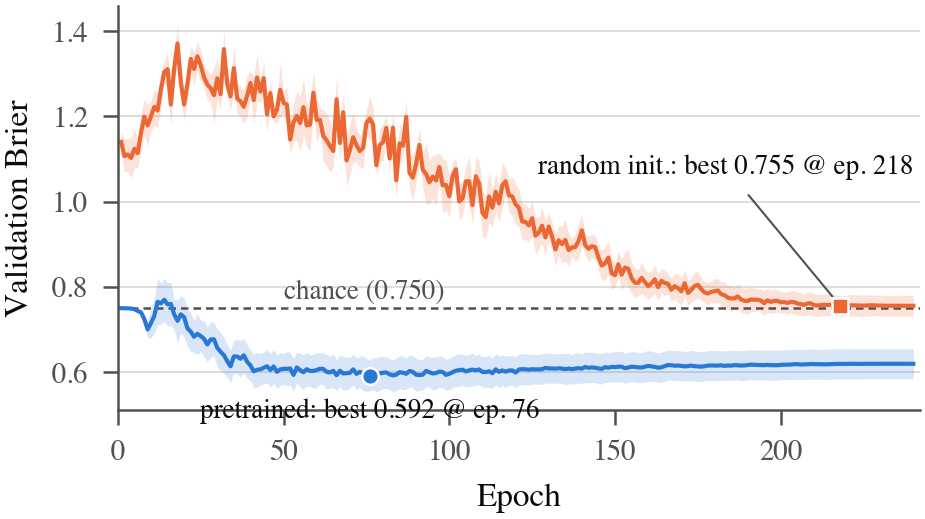
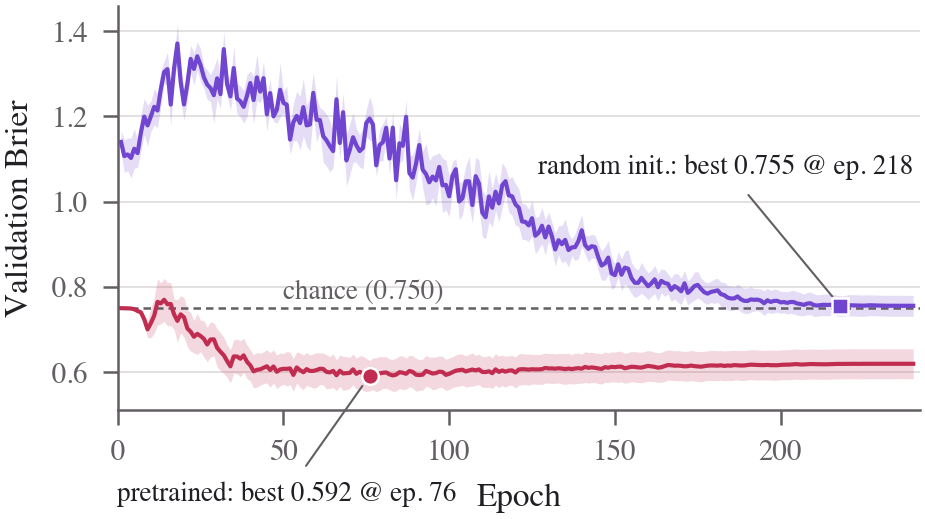
Camera-ready text from Overleaf, with consistency fixes
Authors' Overleaf revision (rewritten introduction and abstract, recoloured
figures, subject-9 trial-count note, Brunner et al. 2024 reference), plus:

- abstract and Fig. 1 now use narrowband - broadband, matching Table II,
  Fig. 2 and Section V-C
- calibration range attributed to the eight single-window supervised arms,
  not Table III, whose supervised rows span only .101-.107
- matched-input arms are not "trained identically"; tuning is per pathway
- BNCI2014-004: difference not statistically detectable; restore the
  EEG Conformer comparison the "not reproduced" claim rests on
- introduction: pipeline impact "may differ" by comparator (exploratory)

diff --git a/paper/calibmi_paper.tex b/paper/calibmi_paper.tex
@@ -36,11 +36,7 @@ sparsh.roy.idk@gmail.com}}
 \maketitle
 
 \begin{abstract}
-Pretrained EEG foundation models are increasingly proposed as general-purpose encoders for brain--computer interfaces, yet recent benchmarks disagree about when their representations transfer to downstream tasks. We audit LaBraM and CBraMod on motor imagery under a validation-locked protocol in which preprocessing, architecture, optimization, freeze depth, checkpoint, temperature, and method selection are determined using training-session data only. On four-class BCI Competition IV-2a, every supervised comparator evaluated here outperforms every foundation-model configuration, including validation-selected fine-tuning.
-
-We then examine a key confound: foundation models and task-specific decoders are normally evaluated using different input pipelines. Retraining three supervised architectures on the broadband arrays consumed by the foundation models produces matched-input accuracy differences of opposite sign across architectures: broadband input improves ATCNet by 0.078 accuracy while reducing EEG Conformer accuracy by 0.088. None of the three individual matched-input terms is significant after multiple-comparison correction at $n=9$. A direct subject-paired contrast of the architecture-specific terms separates ATCNet from the other two comparators, but it rests on a single split and seed, so we treat the sign variation as exploratory rather than as an established architecture-by-pipeline interaction. These observed sign differences suggest that a single comparator may not provide an architecture-invariant decomposition of a pretrained-versus-supervised performance gap.
-
-The four-class deficit also does not reproduce uniformly across motor-imagery datasets: on two-class BNCI2014-004 we cannot detect the same separation between fine-tuned CBraMod and the supervised comparators. Finally, validation-fitted temperature scaling returns foundation-model calibration error to the supervised range despite substantially lower four-class accuracy.
+We audit LaBraM and CBraMod on motor imagery under a validation-locked protocol in which preprocessing, architecture, optimization, freeze depth, checkpoint, temperature, and method selection are determined using training-session data only. In four-class BCI Competition IV-2a, every supervised comparator evaluated here outperforms every foundation-model configuration, including validation-selected fine-tuning. However, is this due to representation strength, or is it confounded by differing preprocessing methods? Retraining 3 supervised architectures on the same broadband arrays consumed by the foundation models shows that this accuracy difference under matched input conditions varies in sign across architectures ($\Delta\mathrm{acc}_{\mathrm{narrowband}-\mathrm{broadband}} = -0.078$ for ATCNet, but $0.088$ for EEG Conformer). None of the 3 terms is significant after correcting for multiple comparisons ($n = 9$), and a direct subject-paired contrast of these architecture-specific terms only shows a difference between ATCNet and the other 2 comparators. This comparison is based on only one split/seed, so the differing signs are merely exploratory, but they suggest that evaluating a single comparator may not be sufficient to separate pretraining and supervised training contributions to the performance in an architecture-invariant manner. Finally, we do not observe the same 4-class deficit when training on a 2-class motor imagery dataset (BNCI2014-004), and we use temperature scaling fitted on a validation set to bring the foundation model's calibration error down to the range of supervised models despite its lower accuracy for the 4-class task.
 \end{abstract}
 
 \begin{IEEEkeywords}
@@ -49,13 +45,10 @@ EEG, brain--computer interface, foundation models, motor imagery, model evaluati
 
 \section{Introduction}
 
-Large pretrained EEG encoders such as LaBraM \cite{jiang2024labram} and CBraMod \cite{wang2025cbramod} are intended to provide reusable representations across downstream neural-decoding tasks. Motor imagery is an informative stress test because subject-specific datasets are small, session shift is substantial, and strong supervised decoders already exist \cite{pfurtscheller1999erd,lotte2018review}. Recent EEG foundation-model benchmarks, however, do not give a consistent answer about transfer \cite{kontras2026neuroatlas,zare2026negativecontrol}.
-
-Two methodological problems complicate comparison. First, evaluation protocols differ. Some published BCI Competition IV-2a results use protocols that differ from the official cross-session setting---for example within-session random splits or other choices that make headline accuracies difficult to compare directly \cite{yu2022lffn}. Standardized BCI benchmarking efforts were developed in part to address this broader reproducibility problem \cite{jayaram2018moabb,chevallier2024reproducibility}.
-
-Second, pretrained and task-specific models often require different input pipelines. A foundation model may expect broadband recordings at a particular sampling rate and scale, whereas a supervised motor-imagery decoder may be optimized for a narrower frequency band. A direct performance difference therefore combines model and input-pipeline effects. NeuroAtlas explicitly identifies EEG-specific preprocessing as a possible confound \cite{kontras2026neuroatlas}, but the corresponding term is rarely examined across several comparator architectures.
-
-We address both issues. Every tunable decision is selected using training-session data only, with machine-checked provenance preventing evaluation labels from entering selection. We then repeat the matched-input control for three supervised architectures rather than one. Our contributions are: (i) a validation-locked evaluation protocol whose leakage guard is encoded in the stored artifacts; (ii) an audit of LaBraM and CBraMod against three supervised motor-imagery architectures plus an architecture-matched random-initialization control; (iii) a three-architecture matched-input analysis whose point estimates differ in sign across comparators; (iv) evidence that the large BCI IV-2a deficit does not reproduce uniformly on BNCI2014-004, without attributing the difference to class count alone; and (v) calibration analysis showing that a single validation-fitted temperature can return foundation-model ECE to the supervised range even when accuracy remains substantially lower.
+Electroencephalography (EEG) is a non-invasive method of measuring neural activity. It has been utilized for brain--computer interfaces (BCIs), which translate neural signals into actionable commands for assistive devices (e.g., prosthetics, FES therapy) \cite{lotte2018review}. A common BCI task is predicting \emph{motor imagery}, where imagined movements produce distinct neural patterns (e.g., "right-hand raise" vs.\ "left-footed kick") \cite{pfurtscheller1999erd,lotte2018review}. However, decoding neural recordings remains difficult due to variability across participants, settings, and time, and collecting EEG data is costly \cite{lotte2018review,brunner2024bcifes}.
+These constraints make generalizable neural representations imperative, and they have been the focus of recent EEG foundation models, which are pretrained on large collections of neural recordings. Such models (e.g., LaBraM \cite{jiang2024labram}, CBraMod \cite{wang2025cbramod}) learn representations that reduce dependence on task-specific labeled data, and demonstrate transfer across participants and tasks. However, these models have shown inconsistent benefits over standard supervised decoders in recent benchmarks \cite{kontras2026neuroatlas,zare2026negativecontrol}. As foundation models are poised to become more prevalent in neural decoding, their improvements over supervised decoders must be reliable enough to justify their inherent complexity and higher cost of training.
+Evaluating these improvements is also difficult, as different model types (foundation vs.\ supervised) require different input pipelines (e.g., filtering, sampling rate, scaling), so an observed performance gap may reflect pipeline differences rather than differences in the learned representations \cite{kontras2026neuroatlas}. Furthermore, the impact of a preprocessing pipeline may differ by the supervised model chosen for comparison, so a single baseline may not be sufficient to establish the value of pretraining.
+Here, we perform a validation-locked audit of LaBraM and CBraMod on motor imagery classification. (1) Using only data from the training session to select methods and models, we compare the encoders of these foundation models to three architectures trained in a supervised fashion, as well as architecture-matched controls with random initialization. (2) We retrain the supervised architectures on the same broadband inputs used by the foundation models to determine whether the matched-input accuracy difference is consistent across comparators. (3) We evaluate whether the accuracy deficit is task-dependent, and how improved probability calibration relates to classification accuracy.
 
 \begin{figure}[t]
 \centering
@@ -63,40 +56,42 @@ We address both issues. Every tunable decision is selected using training-sessio
 \begin{tikzpicture}[
     >=Latex,
     node font=\scriptsize,
-    box/.style={draw,rounded corners=1.5pt,align=center,minimum height=6mm,inner xsep=4pt,inner ysep=2.5pt},
-    arr/.style={->,line width=.45pt}
+    box/.style={draw,rounded corners=1.5pt,align=center,minimum width=1.9cm,
+                minimum height=6mm,inner xsep=3pt,inner ysep=2.5pt},
+    wide/.style={box,minimum width=2.4cm},
+    arr/.style={->,line width=.45pt},
+    title/.style={font=\footnotesize\bfseries,anchor=west}
 ]
-\node[font=\footnotesize\bfseries,anchor=west] at (0,2.25) {(a) Validation-locked evaluation};
-\node[box] (train) at (0.6,1.35) {Training\\session};
-\node[box] (fit)   at (2.65,1.75) {Fit split\\80\%};
-\node[box] (sel)   at (2.65,0.95) {Selection split\\20\%};
-\node[box,text width=2.3cm] (lock) at (5.2,1.35) {Lock configuration\\architecture, LR,\\checkpoint, temperature};
-\node[box] (test) at (7.75,1.35) {Held-out\\session};
-\node[box] (report) at (9.65,1.35) {Report\\metrics once};
-\draw[arr] (train.east) -- (fit.west);
-\draw[arr] (train.east) -- (sel.west);
-\draw[arr] (fit.east) -- (lock.west);
-\draw[arr] (sel.east) -- (lock.west);
-\draw[arr] (lock.east) -- node[above,font=\tiny] {configuration frozen} (test.west);
-\draw[arr] (test.east) -- (report.west);
-\node[font=\tiny,align=center] at (6.5,0.55) {held-out labels are never used for selection};
+% ---------- (a) Validation-locked evaluation ----------
+\node[title] at (-0.95,1.15) {(a) Validation-locked evaluation};
+\node[box] (train) at (0,0)        {Training\\session};
+\node[box] (fit)   at (2.65,0.45)  {Fit split\\80\%};
+\node[box] (sel)   at (2.65,-0.45) {Selection\\split 20\%};
+\node[box] (lock)  at (5.3,0)      {Lock\\configuration};
+\node[box] (test)  at (8.35,0)     {Evaluate once\\on held-out\\session};
 
-\node[font=\footnotesize\bfseries,anchor=west] at (0,-0.15) {(b) Matched-input control};
-\node[box] (eeg) at (0.6,-1.05) {Same EEG\\recordings};
-\node[box] (narrow) at (2.95,-0.65) {Narrowband\\8--30 Hz, 250 Hz};
-\node[box] (broad) at (2.95,-1.45) {Broadband\\0.1--75 Hz, 200 Hz};
-\node[box,text width=2.15cm] (arch) at (5.65,-1.05) {Same supervised\\architecture\\independently tuned};
-\node[box,text width=2.0cm] (term) at (8.15,-1.05) {Matched-input term\\narrow $-$ broad};
-\draw[arr] (eeg.east) -- (narrow.west);
-\draw[arr] (eeg.east) -- (broad.west);
-\draw[arr] (narrow.east) -- (arch.west);
-\draw[arr] (broad.east) -- (arch.west);
+\draw[arr] (train.east) -- ++(0.2,0) |- (fit.west);
+\draw[arr] (train.east) -- ++(0.2,0) |- (sel.west);
+\draw[arr] (fit.east)   -- ++(0.2,0) |- (lock.west);
+\draw[arr] (sel.east)   -- ++(0.2,0) |- (lock.west);
+\draw[arr] (lock.east) -- node[above,font=\tiny] {frozen} (test.west);
+
+% ---------- (b) Matched-input control ----------
+\node[title] at (-0.95,-1.45) {(b) Matched-input control};
+\node[box]  (eeg)    at (0,-2.45)    {Same EEG\\recordings};
+\node[wide] (narrow) at (2.65,-2.0)  {Narrowband\\8--30 Hz, 250 Hz};
+\node[wide] (broad)  at (2.65,-2.9)  {Broadband\\0.1--75 Hz, 200 Hz};
+\node[box]  (arch)   at (5.3,-2.45)  {Supervised model\\tuned per input};
+\node[box]  (term)   at (8.35,-2.45) {Matched-input\\term\\narrow $-$ broad};
+
+\draw[arr] (eeg.east)    -- ++(0.2,0) |- (narrow.west);
+\draw[arr] (eeg.east)    -- ++(0.2,0) |- (broad.west);
+\draw[arr] (narrow.east) -- ++(0.2,0) |- (arch.west);
+\draw[arr] (broad.east)  -- ++(0.2,0) |- (arch.west);
 \draw[arr] (arch.east) -- (term.west);
-\node[font=\tiny,align=center] at (5.65,-2.05) {Repeated for ShallowConvNet, ATCNet, and EEG Conformer};
 \end{tikzpicture}%
 }
-\caption{Experimental protocol. (a) All tunable decisions are selected from the training session; the held-out session is evaluated only after the configuration is locked. (b) Each supervised comparator is trained on narrowband and broadband pathways; the matched-input term is narrowband minus broadband accuracy.}
-\label{fig:protocol}
+\caption{(a) All selection (architecture, learning rate, checkpoint, temperature) uses training-session data only; held-out labels are never used for selection, and metrics are reported once. (b) Each supervised architecture (ShallowConvNet, ATCNet, EEG Conformer) is independently tuned on narrowband and broadband versions of the same recordings.}
 \end{figure}
 
 \section{Related Work}
@@ -110,23 +105,18 @@ NeuroAtlas notes that EEG-specific preprocessing may affect reported results \ci
 \textbf{Supervised motor-imagery decoders.}
 Classical CSP and filter-bank CSP remain established references \cite{ramoser2000csp,ang2008fbcsp}, while EEGNet \cite{lawhern2018eegnet} is a widely used compact neural baseline. Our evaluated comparator set is ShallowConvNet \cite{schirrmeister2017deep}, ATCNet \cite{altaheri2023atcnet}, and EEG Conformer \cite{song2023conformer}.
 
+
 \section{Validation-Locked Protocol}
 
 \subsection{Selection and Enforcement}
 
-One rule is applied throughout: every tunable choice---preprocessing parameters, standardization statistics, architecture, probe regularization, learning rate, freeze depth, stopping epoch, temperature, and downstream thresholds---is determined using data from the training session only. Held-out-session labels are used only to compute final metrics.
-
-Every retained result row contains an \method{eval\_labels\_used\_for\_selection} field written by the runner. The table-building code refuses artifacts for which that field is missing or true, and probability files are rechecked before calibration or selective-prediction metrics are computed. The leakage constraint is therefore encoded in the artifact format rather than relying only on author discipline.
+To eliminate data leakage in the selection of hyperparameters and preprocessing, a strict separation of training and held-out sessions was maintained. All tunable choices were determined using only training session data, including preprocessing hyperparameters, standardization statistics, model architecture, probe regularization, learning rate, fine-tuning freeze depth, stopping epoch, temperature, and downstream task thresholds. Each row of results used for reporting is annotated with whether labels from the held-out session were used to select it. This is written by the runner, and checked in the code that assembles the tables: if absent or true, results for that artifact are refused.
 
 \subsection{Splits, Inputs, and Provenance}
 
-For BCI IV-2a, eight of nine subjects contribute 230 fit, 58 selection, and 288 held-out-session trials; subject 9 contributes 221, 56, and 264 after artifact rejection. The fit/selection split is a stratified 80/20 draw from the training session (seed 42). For BNCI2014-004, the three sessions labelled \texttt{train} form the training session and the two labelled \texttt{test} are held out. The small selection split is relevant to the fine-tuning instability observed below.
+For BCI IV 2a, all 9 subjects were used. After rejecting artifacts (epochs exceeding 100\,$\mu$V peak-to-peak, narrowband supervised pathway only), subject 9 had 221, 56, and 264 trials in the fit, selection, and held-out sets, respectively; the other subjects had 230, 58, and 288 trials. The broadband pathway, including both foundation models, applied no amplitude rejection, so subject 9's matched-input terms compare slightly different trial sets. The fit and selection splits were a stratified 80/20\% split of the training session, (seed 42). For BNCI2014004, sessions with fold \texttt{train} were the training session (3) and sessions with fold \texttt{test} were the held-out session (2).
 
-Epochs span 0--4.5\,s after the cue. The standard supervised pathway uses 8--30 Hz IIR-filtered EEG at 250 Hz, standardized per channel using fit-split statistics. The foundation-model pathway uses 0.1--75 Hz zero-phase FIR-filtered EEG with a 50 Hz notch, resampled to 200 Hz and cropped from the cue to whole 1\,s patches (4\,s, 800 samples). It is converted to microvolts and divided by 100 at the encoder boundary, the scaling used by both reference implementations. Supervised models trained on this broadband pathway receive the same arrays, standardized per channel with fit-split statistics. Each foundation model therefore receives the input type for which its pretrained encoder was designed.
-
-Frozen probes fit an L2 logistic regression ($C\in\{10^{-3},\dots,10\}$) on encoder features; for CBraMod the feature pooling (mean over channels and patches, or flattening) is also selected on validation, and LaBraM uses its mean-pooled \texttt{fc\_norm} output. Fine-tuning trains the encoder with the model's linear classification head.
-
-Foundation models also use learned electrode representations, so channel identity is part of the input contract. The canonical montage is reconstructed and checked against all source files. Each run records device, software versions, and determinism flags, so results from different execution backends are never silently pooled. Frozen probes ran on the deterministic CPU backend; the supervised comparators and fine-tuning arms ran on Apple MPS, which is not bitwise deterministic. Deterministic CPU reruns of the decisive comparison are reported in Section~\ref{sec:robust}.
+Epochs were 0--4.5 seconds after the cue. For supervised models, EEG was IIR filtered 8--30\,Hz at 250\,Hz and standardized by channel with statistics from the fit split. For foundation models, EEG was zero-phase FIR filtered 0.1--75\,Hz at 250\,Hz with a 50\,Hz notch, resampled to 200\,Hz, and cropped from the cue to the nearest whole second, yielding 4 seconds (800 samples) of EEG. Voltages were converted to microvolts and divided by 100 at the encoder boundary, consistent with the reference implementations. For supervised models trained using the foundation model preprocessing, the input was the same array, standardized by channel with statistics from the fit split. Frozen probes were an L2-penalized logistic regression with $C$ selected from [0.001, 0.01, 0.1, 1, 10], fit on the features of the encoder. For CBraMod, mean pooling across channels and patches or flattening was selected on the selection split. For LaBraM, the \texttt{fc\_norm} layer, mean-pooled, was used. Fine-tuning trained the encoder together with its linear classification head. Foundation models use learned electrode representations, so require a canonical montage. The montage was reconstructed and checked for all files. All runs were annotated with the device, software versions, and whether they were run deterministically. Results from different devices are not pooled. Frozen probe calculations were run deterministically on CPU. Supervised comparators and fine-tuning were run on Apple's MPS device, which is not bitwise deterministic. In Section~\ref{sec:robust}, a rerun of the important comparison on a deterministic CPU run is provided.
 
 \section{Experimental Design}
 
@@ -139,22 +129,20 @@ Supervised comparator families are ShallowConvNet \cite{schirrmeister2017deep}, 
 \subsection{Controls}
 
 \textbf{Architecture-matched random initialization.}
-The same encoder architecture is trained from random weights, separating two explanations for poor downstream performance: weak task-relevant information in the pretrained weights versus an architecture that is intrinsically difficult to learn from a few hundred labeled trials. We verify checkpoint loading: 178 of 179 tensors differ from a fresh initialization.
+We train the same encoder architecture from random weights. This allows us to decouple two reasons for poor performance: (i) the encoder weights do not contain useful information for the downstream task, (ii) the encoder architecture cannot be easily trained with a few hundred trials. To ensure that we correctly load the checkpoints, we verify that 178 out of 179 tensors differ from a random initialization.
 
-\textbf{Matched input.}
-ShallowConvNet, ATCNet, and EEG Conformer are each retrained on the broadband arrays consumed by the foundation models, with the stopping epoch selected on validation Brier in every arm (200 epochs, batch 32). For ShallowConvNet the temporal kernel and filter count are selected per subject from four settings (kernel 16, 32, or 51 with 40 filters, or the narrowband default of 64 with 16). ATCNet and EEG Conformer keep their published architectures and select only the learning rate from $\{10^{-2},10^{-3},3\times10^{-4}\}$. Because tuning occurs independently for each pathway, the matched-input term captures the input pipeline together with the architecture retuning required by that pipeline; it should not be read as the isolated effect of any single filter or preprocessing operation.
+\textbf{Matched input.} We retrain ShallowConvNet, ATCNet, and EEG Conformer on the same (broadband) array used for the foundation models. For each arm, we select the stopping epoch using the Brier score on the selection split. We train all models for 200 epochs with a batch size of 32. For ShallowConvNet, we additionally select the temporal kernel size and the number of filters on the selection split, per subject, out of four settings (kernel sizes 16, 32, 51 with 40 filters, as well as the narrowband default of 64 with 16 filters). For ATCNet and the EEG Conformer, we use the same architecture as described in their respective papers and select only the learning rate from $\{10^{-2}, 10^{-3}, 3\times10^{-4}\}$. All hyperparameters are selected independently for each pathway. Note that the matched-input term therefore also includes retuning the architectures, and should not be interpreted as solely attributable to individual filters or preprocessing operations.
 
 \subsection{Datasets and Statistics}
 
-BCI Competition IV-2a is the primary dataset \cite{brunner2008graz,tangermann2012competition}: nine subjects, two sessions, four motor-imagery classes, and 22 EEG channels. BNCI2014-004 \cite{leeb2007bnci004} provides an independent second setting with nine subjects, two classes, and three electrodes (C3, Cz, C4). BNCI2014-001 is not used as an independent replication because it reconstructs the same underlying recordings as BCI IV-2a. BNCI2014-004 is not a controlled class-count ablation because dataset identity and channel count change simultaneously.
+The primary dataset used is BCI Competition IV dataset 2a (IV-2a) from~\cite{brunner2008graz,tangermann2012competition}. It has nine subjects with two recording sessions each and four motor imagery classes. There are 22 EEG channels. As a second data setting, we evaluate on dataset BNCI2014-004 from~\cite{leeb2007bnci004}, which contains nine subjects, two classes, and three electrodes (C3, Cz, C4). While there also is dataset BNCI2014-001, it is reconstructed from the same recordings as BCI IV-2a and hence does not provide an independent replication. The comparison between the two datasets is not a controlled ablation of the number of classes, as the dataset and number of channels also change.
 
-Brier score is the primary probability-quality metric; we additionally report accuracy, ECE, and negative log-likelihood \cite{brier1950verification,gneiting2007proper}. ECE is top-label ECE over 15 equal-mass confidence bins, computed per subject on the held-out session and then averaged; 95\% confidence intervals are percentile bootstraps over the nine participants (10{,}000 resamples). Temperature scaling \cite{guo2017calibration} is fit on validation data only and capped at 20.0; saturation at the cap is recorded because it indicates severe raw-logit overconfidence. Pairwise comparisons use two-sided subject-paired Wilcoxon signed-rank tests \cite{wilcoxon1945individual} with Benjamini--Hochberg correction \cite{benjamini1995fdr} within each reported primary family. At $n=9$, the smallest attainable two-sided exact Wilcoxon value is $2^{1-n}=0.0039$. We distinguish failure to detect a difference from evidence of equality throughout.
-
+The primary metric used for evaluating the quality of the probabilities is the Brier score. In addition, we report accuracy, the expected calibration error (ECE), and the negative log-likelihood (NLL)~\cite{brier1950verification,gneiting2007proper}. For the ECE, we use the top label ECE with 15 equal-mass bins. We compute the metrics per subject on the held-out session and report the mean, along with 95\% confidence intervals estimated using percentile bootstraps with 10{,}000 bootstrap resamples over the nine participants. For temperature scaling~\cite{guo2017calibration}, we fit the temperature on the validation data. We cap it at 20.0, and report if the cap was saturated for a subject, indicating that the raw logits were extremely overconfident. For comparisons between two methods, we conduct a two-sided, subject-paired Wilcoxon signed-rank test~\cite{wilcoxon1945individual}. We correct for multiple hypothesis testing using the Benjamini--Hochberg procedure~\cite{benjamini1995fdr} within each family of tests where we report a primary value. For the $n = 9$ participants in our experiments, the lowest achievable two-sided exact p-value for the Wilcoxon signed-rank test is $2^{1-n} = 0.0039$. We distinguish between not finding a difference between two methods, and finding evidence that they are equal.
 \section{Results}
 
 \subsection{Four-Class Motor Imagery}
 
-Table~\ref{tab:main} summarizes representative configurations from a 26-configuration validation-locked grid. Every supervised comparator exceeds every foundation-model configuration in accuracy. Validation-selected CBraMod fine-tuning reaches 0.4796, compared with 0.5305 for broadband EEG Conformer and 0.6962 for cropped ShallowConvNet. Against each supervised comparator, the paired accuracy comparison with the best foundation-model configuration reaches the attainable exact-Wilcoxon floor, with no subject-level wins for the foundation-model arm.
+Representative configurations from a 26-configuration validation-locked grid are tabulated in Table~\ref{tab:main}. All supervised comparators outperform all foundation model configurations. Validation-selected CBraMod fine-tuning (0.4796) compares to broadband EEG Conformer (0.5305) and cropped ShallowConvNet (0.6962). All comparisons with supervised comparators hit the floor of the exact Wilcoxon test, with zero subject-level wins for the best-performing foundation model arm.
 
 \begin{table}[t]
 \centering
@@ -178,7 +166,7 @@ LaBraM, frozen           & 0.3322 & 0.7323 & 0.0874 \\
 
 \subsection{Fine-Tuning Stability}
 
-Under the initial reference recipe, the validation-optimal epoch occurs between epochs 0 and 4 across runs even though warm-up lasts six epochs: the model peaks before reaching its nominal learning rate. A six-configuration search ranked entirely on validation data improves fine-tuning substantially without reversing the ordering in Table~\ref{tab:main}. The successful changes---freezing additional blocks and lowering learning rate---both limit displacement from pretrained weights, consistent with overfitting under a roughly 230-trial subject-specific fit budget.
+The initial reference recipe hyperparameters entail a validation-optimal number of epochs in [0, 4], implying termination before the end of a six-epoch warm-up. A validation-selected six-configuration search improves fine-tuning, but the supervised models remain superior. Freezing additional blocks and decreasing learning rates may reduce overfitting, in the context of fitting on $\sim$230 trials.
 
 \begin{figure}[t]
 \centering
@@ -187,9 +175,9 @@ Under the initial reference recipe, the validation-optimal epoch occurs between 
 \label{fig:matched}
 \end{figure}
 
-\subsection{Matched-Input Estimates Differ in Sign}
+\subsection{Matched-Input Estimates of the Broadband Effect Have Contrasting Signs}
 
-We define the matched-input term as narrowband minus broadband accuracy for the same comparator family. A negative value therefore means the broadband foundation-model pathway performs better. Both arms of each term share one single-window training recipe; the cropped ShallowConvNet of Table~\ref{tab:main} is deliberately excluded, because comparing against it would mix training recipe with input pipeline.
+Here, "matched input" refers to the difference (narrowband $-$ broadband) within each comparator family, each trained using a single window (unlike the cropped ShallowConvNet from Table~\ref{tab:main}); negative values favor broadband.
 
 \begin{table}[t]
 \centering
@@ -207,7 +195,7 @@ EEG Conformer  & .6182 & .5305 & $+.088$ & 8/9 & .176 \\
 \end{tabular}
 \end{table}
 
-For ATCNet, broadband input improves mean accuracy by 0.078 and wins for eight of nine subjects (1/9 narrowband wins). For EEG Conformer, the direction reverses: narrowband improves mean accuracy by 0.088 and wins for eight of nine subjects. ShallowConvNet lies between those cases. None of the three individual terms survives Benjamini--Hochberg correction, and each reflects a narrow per-pathway search (kernel and filter count for ShallowConvNet, learning rate otherwise) that a wider search could move. Subject-level 95\% bootstrap intervals are $[-.160,-.017]$ for ATCNet, $[-.004,+.082]$ for ShallowConvNet, and $[-.030,+.171]$ for EEG Conformer. Fig.~\ref{fig:matched} shows the subject-level spread. Contrasting the architecture-specific terms directly within subject, the EEG Conformer term exceeds the ATCNet term by 0.165 (9/9 subjects, $p_{\mathrm{BH}}=.006$) and the ShallowConvNet term exceeds it by 0.114 (9/9, $p_{\mathrm{BH}}=.006$); EEG Conformer and ShallowConvNet do not differ detectably (0.051, $p_{\mathrm{BH}}=.129$). These contrasts come from one fit/selection split and one training seed per arm, so they indicate that ATCNet responds differently to the input change rather than establishing why.
+Table~\ref{tab:matched} and Fig.~\ref{fig:matched} indicate a broadband improvement to ATCNet of 0.078 and a narrowband improvement to EEG Conformer of 0.088. None of these individual terms were significant after Benjamini--Hochberg correction. However, direct comparisons of EEG Conformer with ATCNet (0.165, 9/9 subjects, $p_{\text{BH}}=.006$) and ShallowConvNet with ATCNet (0.114, 9/9, $p_{\text{BH}}=.006$) were significant after Benjamini--Hochberg correction. EEG Conformer and ShallowConvNet were not detectably different ($p_{\text{BH}}=.129$). These direct comparisons are exploratory, as only a single split and seed was considered per arm.
 
 \begin{figure}[t]
 \centering
@@ -218,11 +206,11 @@ For ATCNet, broadband input improves mean accuracy by 0.078 and wins for eight o
 
 \subsection{Task Dependence and Robustness}\label{sec:robust}
 
-On BNCI2014-004, fine-tuned CBraMod reaches 0.8085 accuracy, compared with 0.8458 for the best supervised arm, 0.8185 for tuned ShallowConvNet, and 0.7981 for EEG Conformer. We therefore cannot detect the same uniform foundation-model deficit observed on BCI IV-2a. This difference is not attributed to class count alone. Relative to BCI IV-2a, BNCI2014-004 halves the number of classes, reduces 22 channels to three, and changes participants and recording protocol, so the smaller gap may reflect an easier two-class task, a montage that leaves less spatial structure for supervised spatial filters to exploit, or both; our design cannot separate these. A class-subset or channel-subset ablation within BCI IV-2a would be the direct test.
+On the two-class BNCI2014-004 dataset, fine-tuned CBraMod (0.8085) scores below the best performing supervised arm (0.8458), though this difference was not statistically detectable, and above EEG Conformer (0.7981). The uniform four-class deficit is therefore not reproduced; this cannot be attributed to the change in classes alone, which differs alongside channels, participants, and protocol, relative to BCI IV-2a.
 
-The decisive fine-tuned-CBraMod versus random-initialization comparison was repeated under three independent full-pipeline reseeds, redrawing the fit/selection split, initialization, and batch order. Subject-averaged effects are 0.139, 0.132, and 0.130 on BCI IV-2a and 0.107, 0.111, and 0.108 on BNCI2014-004. Each of the six paired comparisons is individually significant under the same subject-level test, and the lowest subject win count is eight of nine. These are robustness checks rather than a separate corrected confirmatory family; seed-to-seed spread is not treated as inferential uncertainty across subjects. Three deterministic CPU reruns of the same comparison give fine-tuned CBraMod accuracies of 0.450--0.485 and effects of 0.107--0.148 on BCI IV-2a (8--9/9 wins) and 0.078--0.145 on BNCI2014-004 (8/9), so the conclusion does not depend on the MPS backend.
+A triple reseed of the full pipeline, comparing fine-tuned CBraMod with random initialization, found accuracies superior by 0.130--0.139 on BCI IV-2a and 0.107--0.111 on BNCI2014-004, in all cases with $\geq$8/9 subject-level wins. Rerunning on CPU, with an identical architecture on a deterministic backend, preserved the advantage.
 
-To test whether the random-initialization arm was simply under-trained, we repeated the BCI IV-2a comparison for 240 epochs for both arms (Fig.~\ref{fig:curve}). Random initialization gained 0.017 accuracy and closed 0.024 of the gap, while the pretrained arm did not improve. Random initialization reached its best validation Brier near epoch 218 and was approximately flat from epoch 190 onward; its best value, 0.755, remained near the four-class chance Brier of 0.750.
+Extending training to 240 epochs, for both arms, improved the accuracy of the random initialization by only 0.017, with best validation Brier still near chance (0.755 vs.\ 0.750; Fig.~\ref{fig:curve}).
 
 \begin{figure}[t]
 \centering
@@ -233,7 +221,7 @@ To test whether the random-initialization arm was simply under-trained, we repea
 
 \subsection{Calibration}
 
-Raw foundation-model logits are strongly overconfident. Frozen configurations require validation-fitted temperatures from 3.1 to 9.5, with one to four of nine subjects reaching the 20.0 cap, compared with approximately 1.03 for broadband ShallowConvNet. Table~\ref{tab:calib} and Fig.~\ref{fig:reliability} report held-out calibration before and after scaling. After temperature scaling, held-out CBraMod ECE falls between 0.103 and 0.124, within the 0.101--0.143 range observed across the eight validation-tuned single-window supervised arms on BCI IV-2a (the six matched-input arms of Table~\ref{tab:matched}, ICA-cleaned broadband ShallowConvNet, and retuned narrowband ATCNet) despite much lower four-class accuracy. Scaling improves Brier only modestly for the pretrained arms; the large raw-to-scaled change belongs to the random-initialization control, whose raw ECE of 0.464 falls to 0.099.
+The unscaled foundation-model logits are typically overconfident. Fitted validation temperatures ranged from 3.1 to 9.5 for the frozen configurations, with the maximum temperature (20.0) reached for some subjects. After scaling, CBraMod exhibited an ECE of 0.103--0.124 (Table~\ref{tab:calib}), within the 0.101--0.143 range of the eight single-window supervised models, despite the reduced accuracy and worse Brier score. Temperature scaling improved the Brier score of the pretrained model only modestly, compared to a reduction in ECE from 0.464 to 0.099 for a randomly initialized model.
 
 \begin{table}[t]
 \centering
@@ -259,11 +247,11 @@ LaBraM, frozen        & .734 & .732 & .088 & .087 [.081,.094] & 1.352 \\
 
 \section{Discussion and Limitations}
 
-The central methodological observation is not that one input pipeline is universally better. The matched-input point estimate ranges from a 0.078 improvement for ATCNet to a 0.088 reduction for EEG Conformer; no individual term survives correction, and with one split and seed per arm the paired contrast shows that architectures respond differently to the same input change, not why. Their opposite observed directions nevertheless show why a decomposition based on one comparator should be interpreted cautiously. A practical remedy is inexpensive: repeat matched-input analysis across multiple reasonable comparator architectures and report raw differences rather than a percentage ``pipeline share,'' whose interpretation becomes unstable when the underlying term changes sign.
+The central methodological observation is not that one input pipeline is universally better. Matched-input estimates range from a 0.078 improvement for ATCNet to a 0.088 reduction for EEG Conformer. Although no individual term survives correction, direct subject-paired contrasts distinguish ATCNet from the other architectures. These findings suggest that decomposing performance gaps using a single comparator may be unreliable; matched-input differences should instead be reported across multiple architectures.
 
-The main performance result is similarly bounded. These experiments do not show that pretrained EEG encoders fail generally. They show that, under a leakage-controlled cross-session protocol, the two encoders evaluated here trail three supervised architectures on four-class BCI IV-2a, while fine-tuned CBraMod is competitive with the supervised arms on BNCI2014-004. Calibration also emerges as a separate axis: one validation-fitted scalar largely repairs probability calibration even when discrimination remains weak. Whether that correction remains stable under reduced-precision on-device inference is untested here.
+Our results do not imply that pretrained EEG encoders fail generally. Under a validation-locked cross-session protocol, both evaluated encoders trail supervised architectures on four-class BCI IV-2a, while fine-tuned CBraMod is competitive on BNCI2014-004. Temperature scaling improves calibration despite persistent accuracy deficits.
 
-Several limitations matter. We successfully evaluate two foundation models out of four attempted implementations and only two motor-imagery datasets. BNCI2014-004 contains three electrodes and is not a controlled replication of the 22-channel BCI IV-2a setting. The decisive pretrained-versus-random comparison uses three full reseeds, whereas several other configurations use one seed. Subject-level inference is limited to nine participants, making the design better suited to large, consistent effects than small improvements. The matched-input retuning is narrow, and a broader per-pathway search (depth, dropout, pooling, window length) could shift the individual terms. The matched-input analysis also uses a single fit/selection split and one seed per arm; the ShallowConvNet broadband arm, rerun under three deterministic CPU seeds, keeps its sign (terms 0.028--0.048), but the other arms were not reseeded, so the cross-architecture contrast should be treated as exploratory until replicated over repeated splits. Our foundation-model checks confirm checkpoint loading and input contracts but do not compare outputs against the reference implementations on fixed inputs. Raw (unscaled) NLL was not stored, so Table~\ref{tab:calib} reports NLL after scaling only.
+Several limitations remain. We evaluate two foundation models and two datasets, with only nine subjects per dataset. BNCI2014-004 differs in class count, electrode count, and recording protocol, preventing controlled attribution of task-dependent differences. Matched-input comparisons use narrow hyperparameter searches and one split and seed per arm; although ShallowConvNet retains its sign across three CPU seeds, the other architectures were not reseeded. Thus, the cross-architecture findings remain exploratory pending replication across splits and seeds.
 
 \section*{Reproducibility}
 
@@ -271,7 +259,7 @@ Code, per-subject result artifacts, run records carrying platform fingerprints, 
 
 \section*{Use of AI Tools}
 
-An AI assistant (Claude, Anthropic) helped modify analysis scripts, including the one producing the Wins and $p_{\mathrm{BH}}$ columns of Table~\ref{tab:matched}, assemble and verify the bibliography, and edit the text. The authors designed the study, ran all experiments, and reviewed every change.
+An AI assistant (Claude, Anthropic) helped modify analysis scripts, including the one producing the Wins and $p_{\mathrm{BH}}$ columns of Table~\ref{tab:matched}. It also helped assemble and verify the bibliography and edit the text. The authors designed the study, ran all experiments, and reviewed every change.
 
 \bibliographystyle{IEEEtran}
 \bibliography{refs}

diff --git a/src/scripts/make_paper_figures.py b/src/scripts/make_paper_figures.py
@@ -34,8 +34,8 @@ OUT = Path("paper") / "figures"
 # IEEE column width; first three slots of the validated categorical palette,
 # each paired with a marker so the figures survive grayscale print.
 COL_W = 3.45
-INK, INK_2, GRID = "#0b0b0b", "#52514e", "#d9d8d4"
-BLUE, ORANGE, AQUA = "#2a78d6", "#eb6834", "#1baf7a"
+INK, INK_2, GRID = "#211F24", "#625E63", "#DEDBD9"
+BLUE, ORANGE, AQUA = "#C12D50", "#7045D0", "#16834B"
 
 plt.rcParams.update({
     "font.family": "serif",
@@ -65,14 +65,12 @@ def _contrasts_module():
     spec.loader.exec_module(mod)
     return mod
 
-
 def _save(fig, name: str) -> None:
     OUT.mkdir(parents=True, exist_ok=True)
     for ext in ("pdf", "png"):
         fig.savefig(OUT / f"{name}.{ext}", dpi=300, bbox_inches="tight", pad_inches=0.02)
     plt.close(fig)
     print(f"wrote {OUT / name}.pdf")
-
 
 def matched_input() -> None:
     m = _contrasts_module()
@@ -134,9 +132,10 @@ def learning_curve() -> None:
                 markeredgecolor="white", markeredgewidth=0.6, zorder=5)
         text = f"{label}: best {mean[best]:.3f} @ ep. {best + 1}"
         if label == "pretrained":
-            ax.annotate(text, (best + 1, mean[best]), xytext=(0, -10), textcoords="offset points",
-                        fontsize=6.5, color=INK, ha="center")
-        else:  # clear space above the curve, with a leader to the marker
+            ax.annotate(text, (best + 1, mean[best]), xytext=(-20, -30), textcoords="offset points",
+                        fontsize=6.5, color=INK, ha="center", 
+                        arrowprops=dict(arrowstyle="-", color=INK_2, linewidth=0.5, shrinkB=3))
+        else: 
             ax.annotate(text, (best + 1, mean[best]), xytext=(mean.size, 1.05), textcoords="data",
                         fontsize=6.5, color=INK, ha="right", va="bottom",
                         arrowprops=dict(arrowstyle="-", color=INK_2, linewidth=0.5, shrinkB=3))
@@ -147,13 +146,11 @@ def learning_curve() -> None:
     ax.set_axisbelow(True)
     _save(fig, "fig_learning_curve")
 
-
 def _scale(p: np.ndarray, t: float) -> np.ndarray:
     z = np.log(np.clip(p, 1e-12, 1.0)) / t
     z -= z.max(axis=1, keepdims=True)
     e = np.exp(z)
     return e / e.sum(axis=1, keepdims=True)
-
 
 def _ece(p: np.ndarray, y: np.ndarray, n_bins: int = 15):
     conf, correct = p.max(axis=1), (p.argmax(axis=1) == y).astype(float)
@@ -162,7 +159,6 @@ def _ece(p: np.ndarray, y: np.ndarray, n_bins: int = 15):
     a = np.array([correct[b].mean() for b in bins])
     n = np.array([b.size for b in bins])
     return float(np.sum(n * np.abs(a - c)) / n.sum()), c, a
-
 
 def _load_arm(root: Path, subdir: str, stem: str, key: str):
     metrics = pd.read_csv(root / subdir / f"{stem}_subject_metrics.csv")
